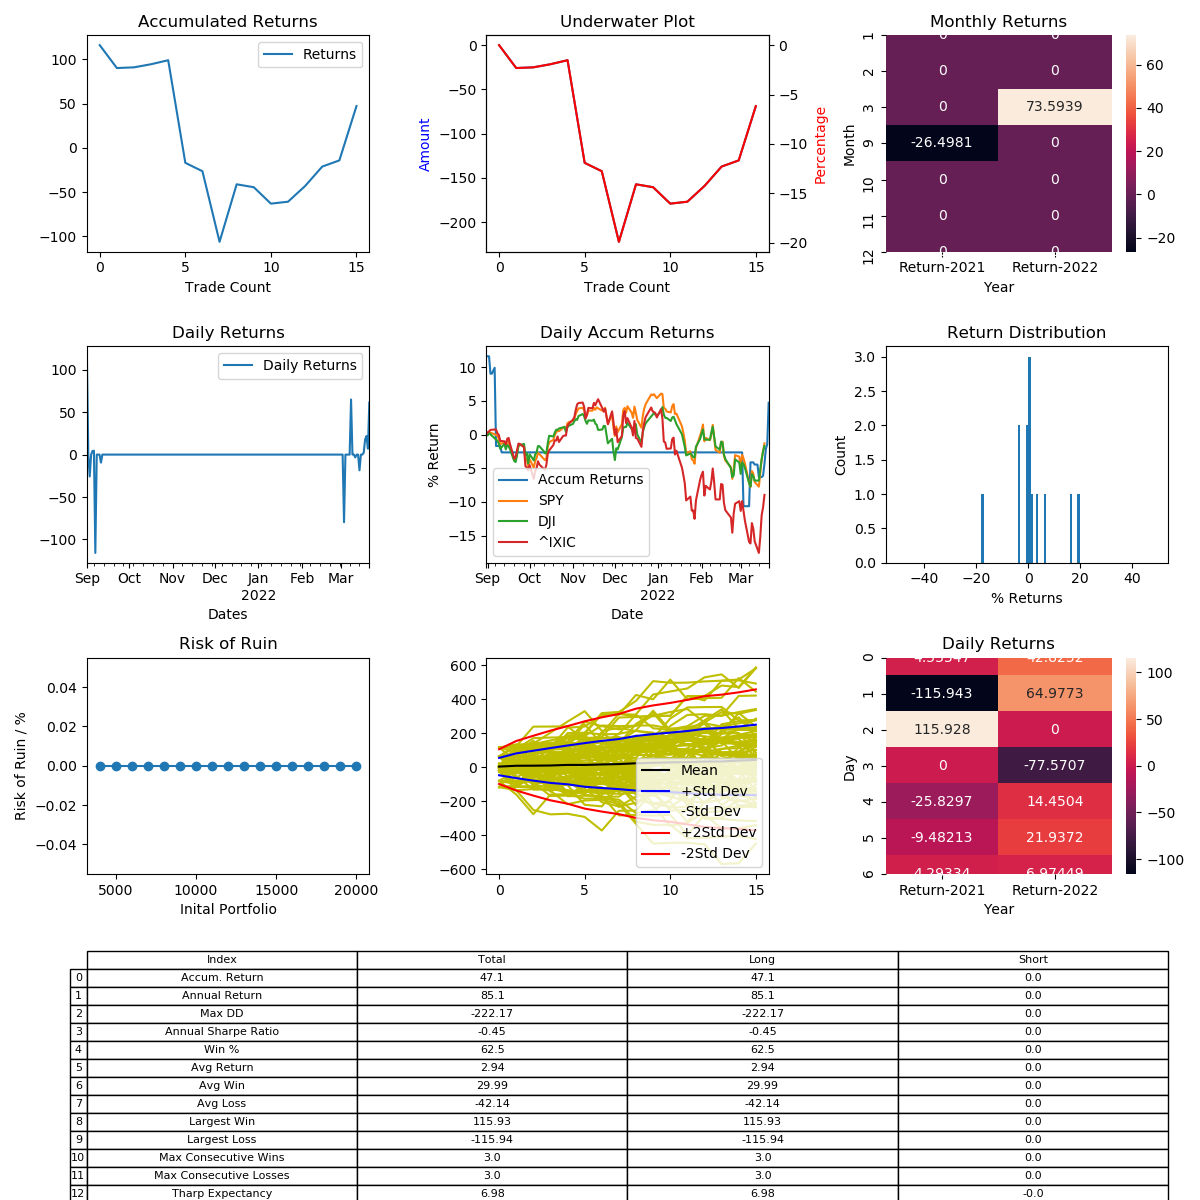
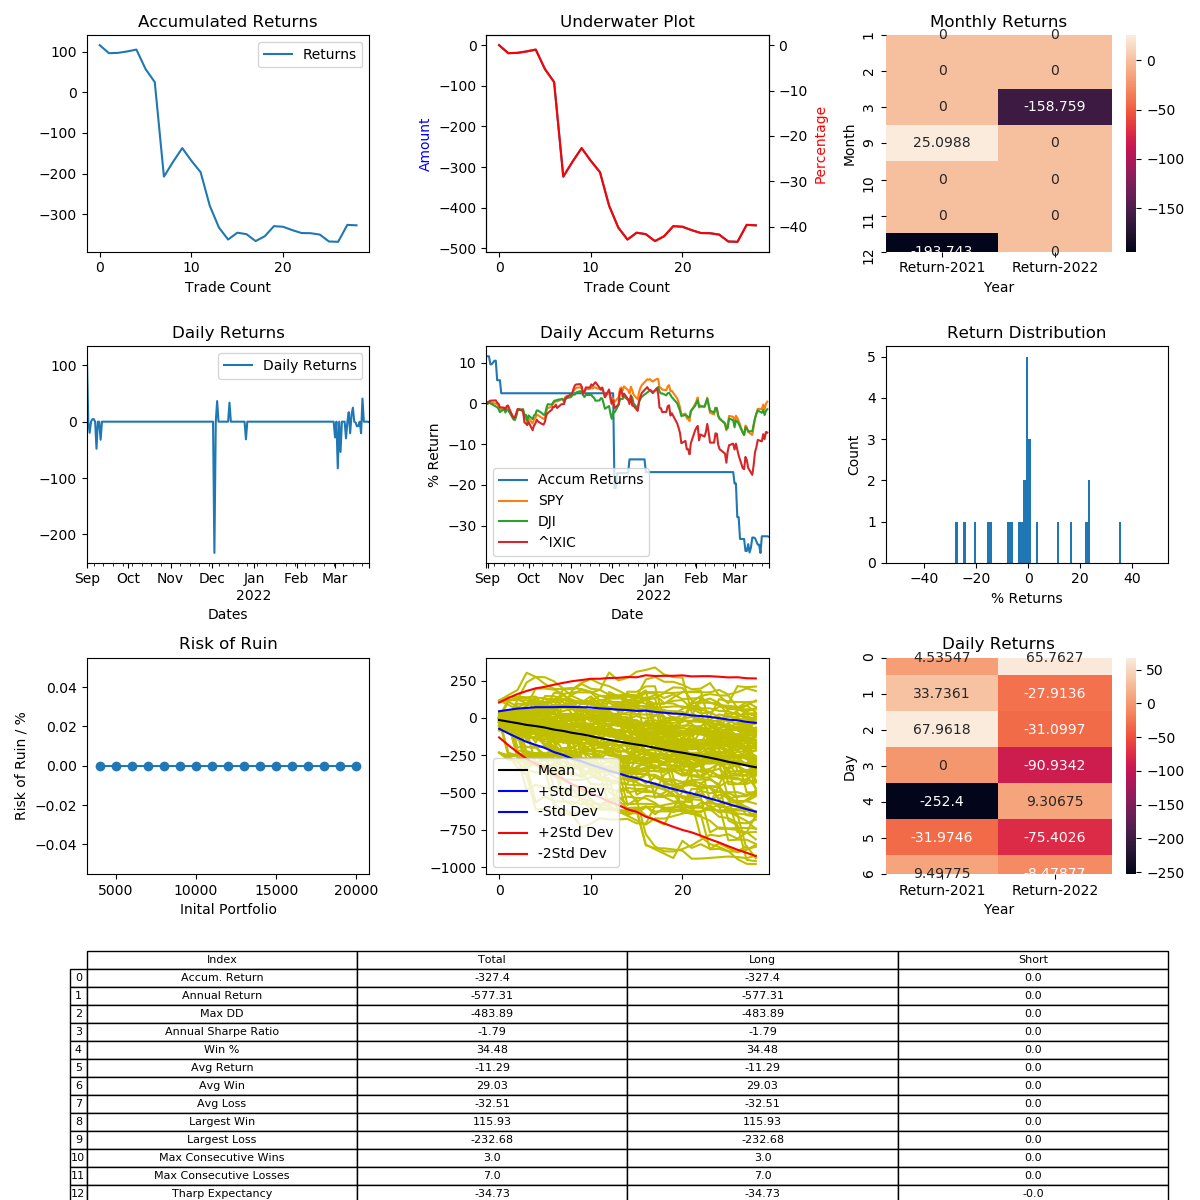
Fixed OOS Testing for Shooting Star (Crypto)

diff --git a/oos_testing/Shooting Star (Crypto)/oos.py b/oos_testing/Shooting Star (Crypto)/oos.py
@@ -194,7 +194,7 @@ if __name__ == "__main__":
         
         for symbol in symbols:
             
-            median_diff = diff_stats.loc["BTCUSD"]["50th"]
+            median_diff = diff_stats.loc[symbol]["50th"]
             for period in periods:
                 period_prices = prices[(symbol, period)].loc[period_prev_date:period_start_date]
                 for diff in diffs:
